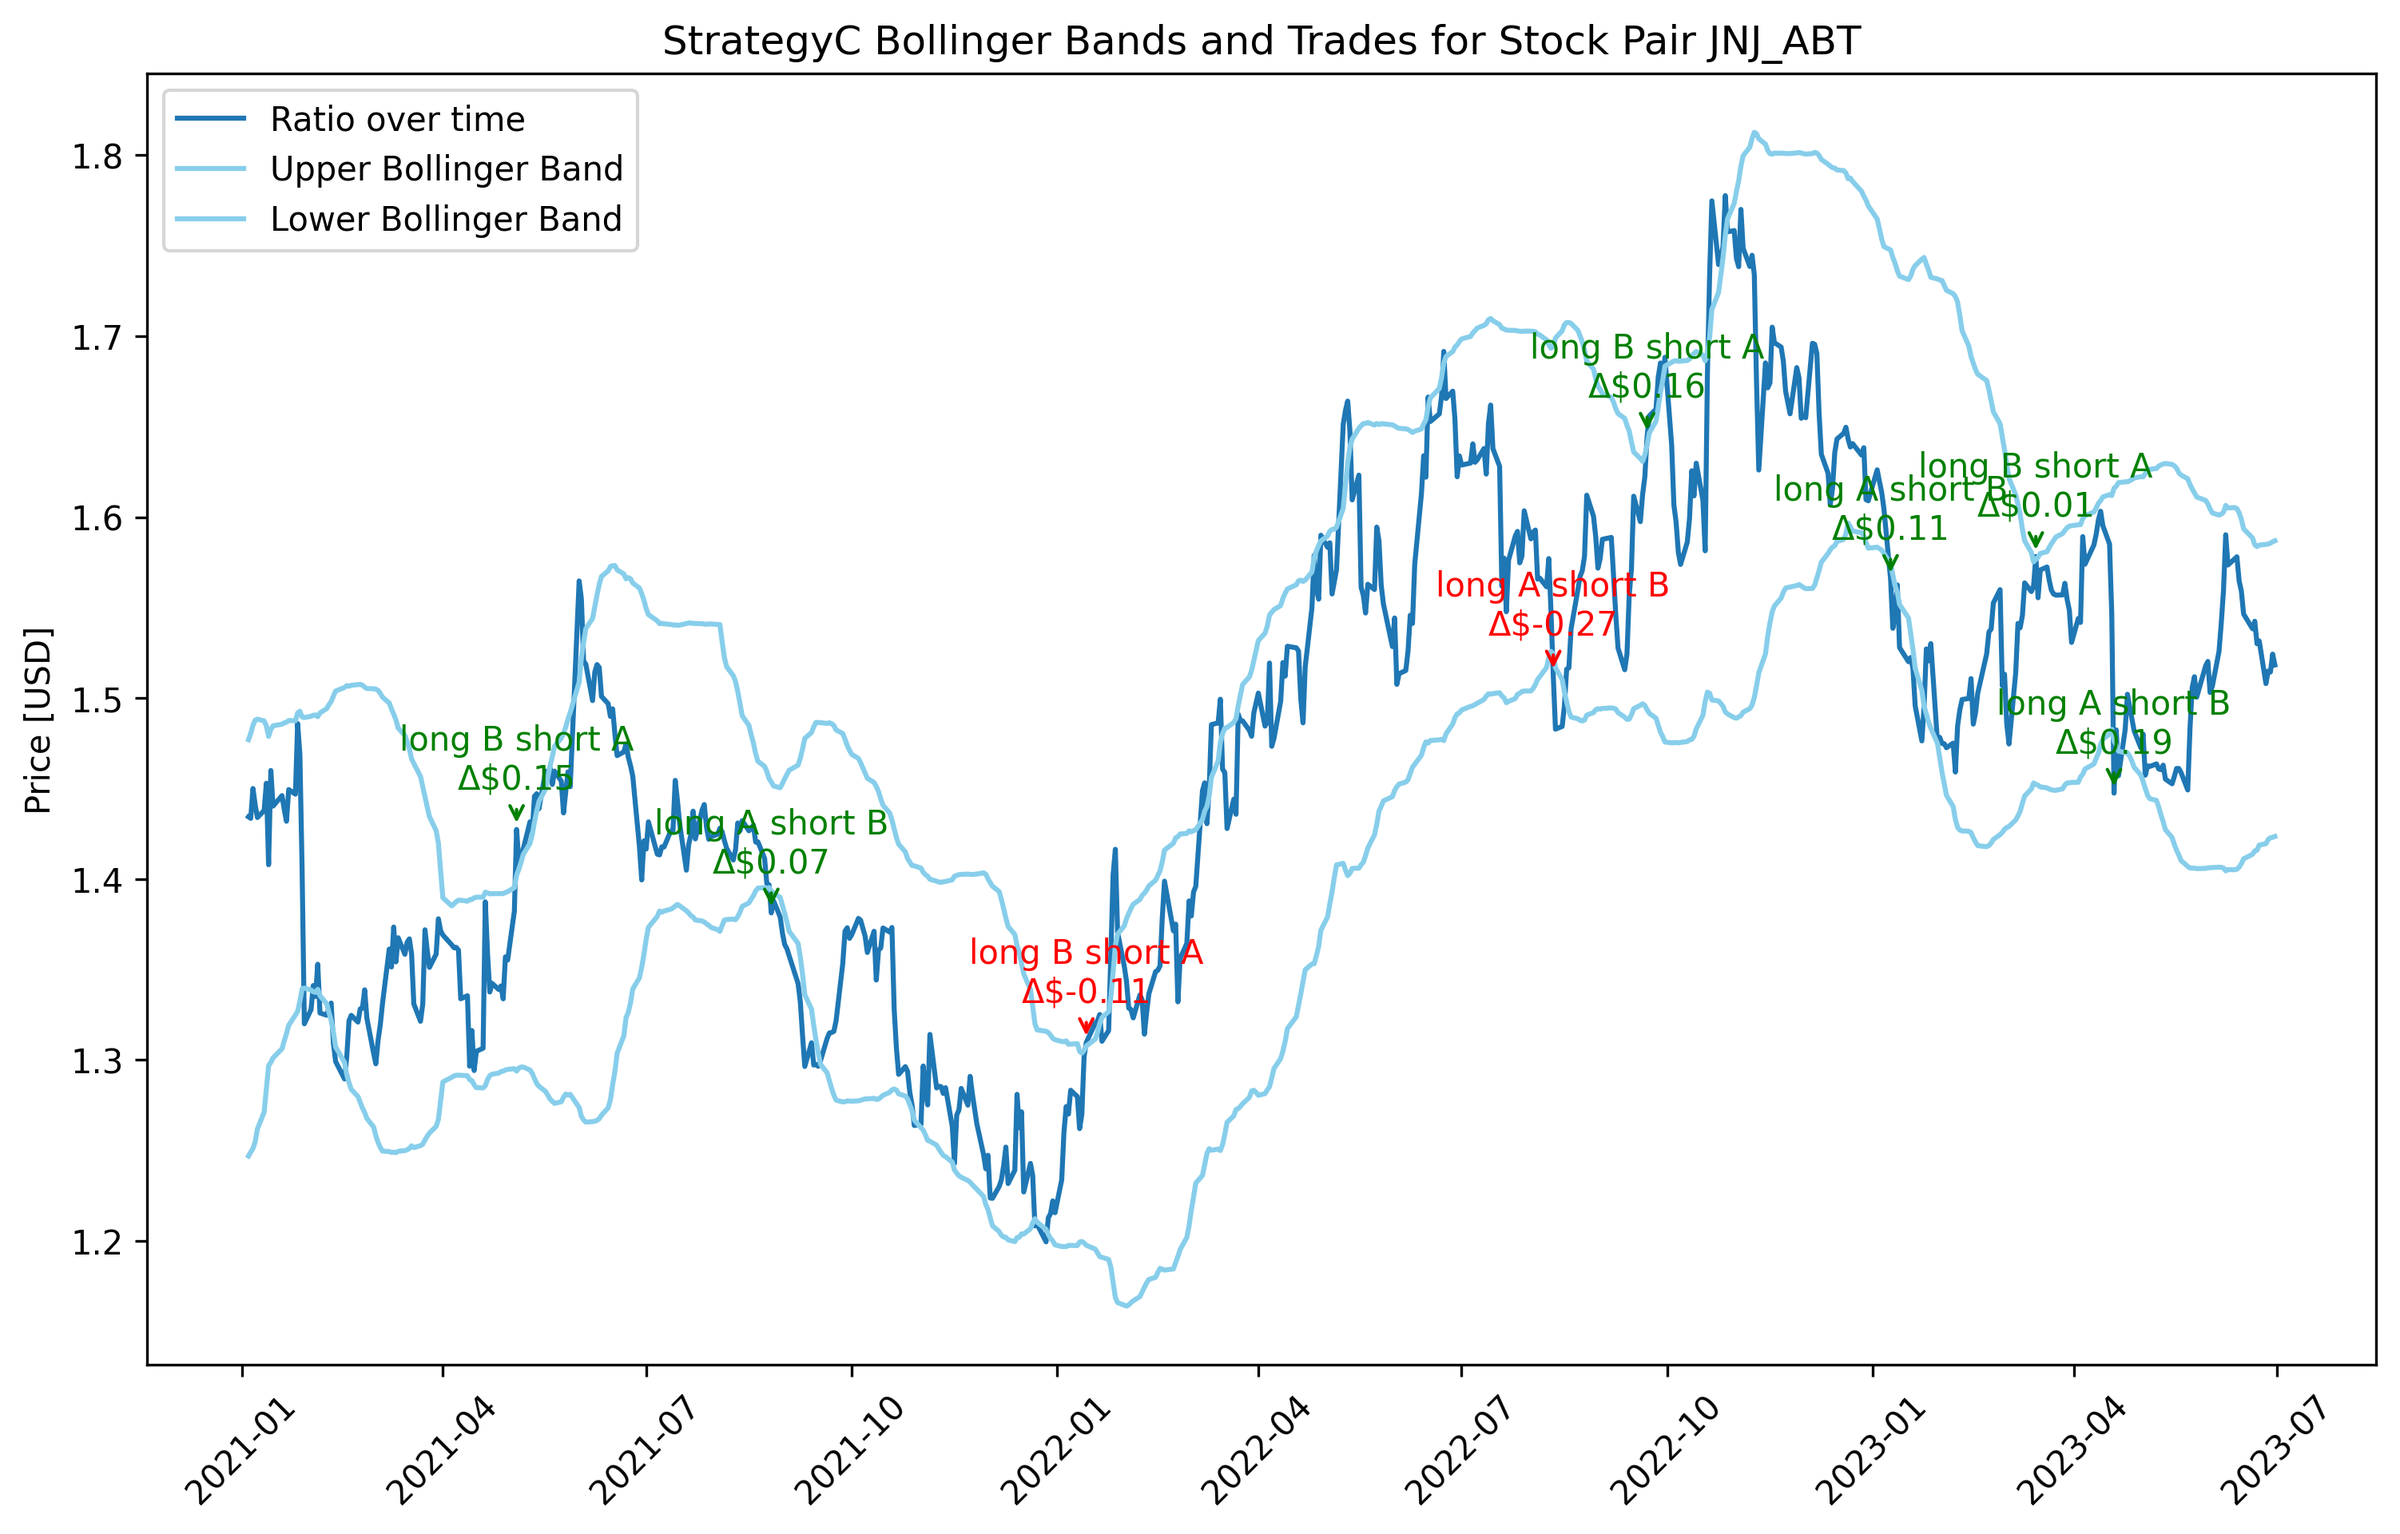
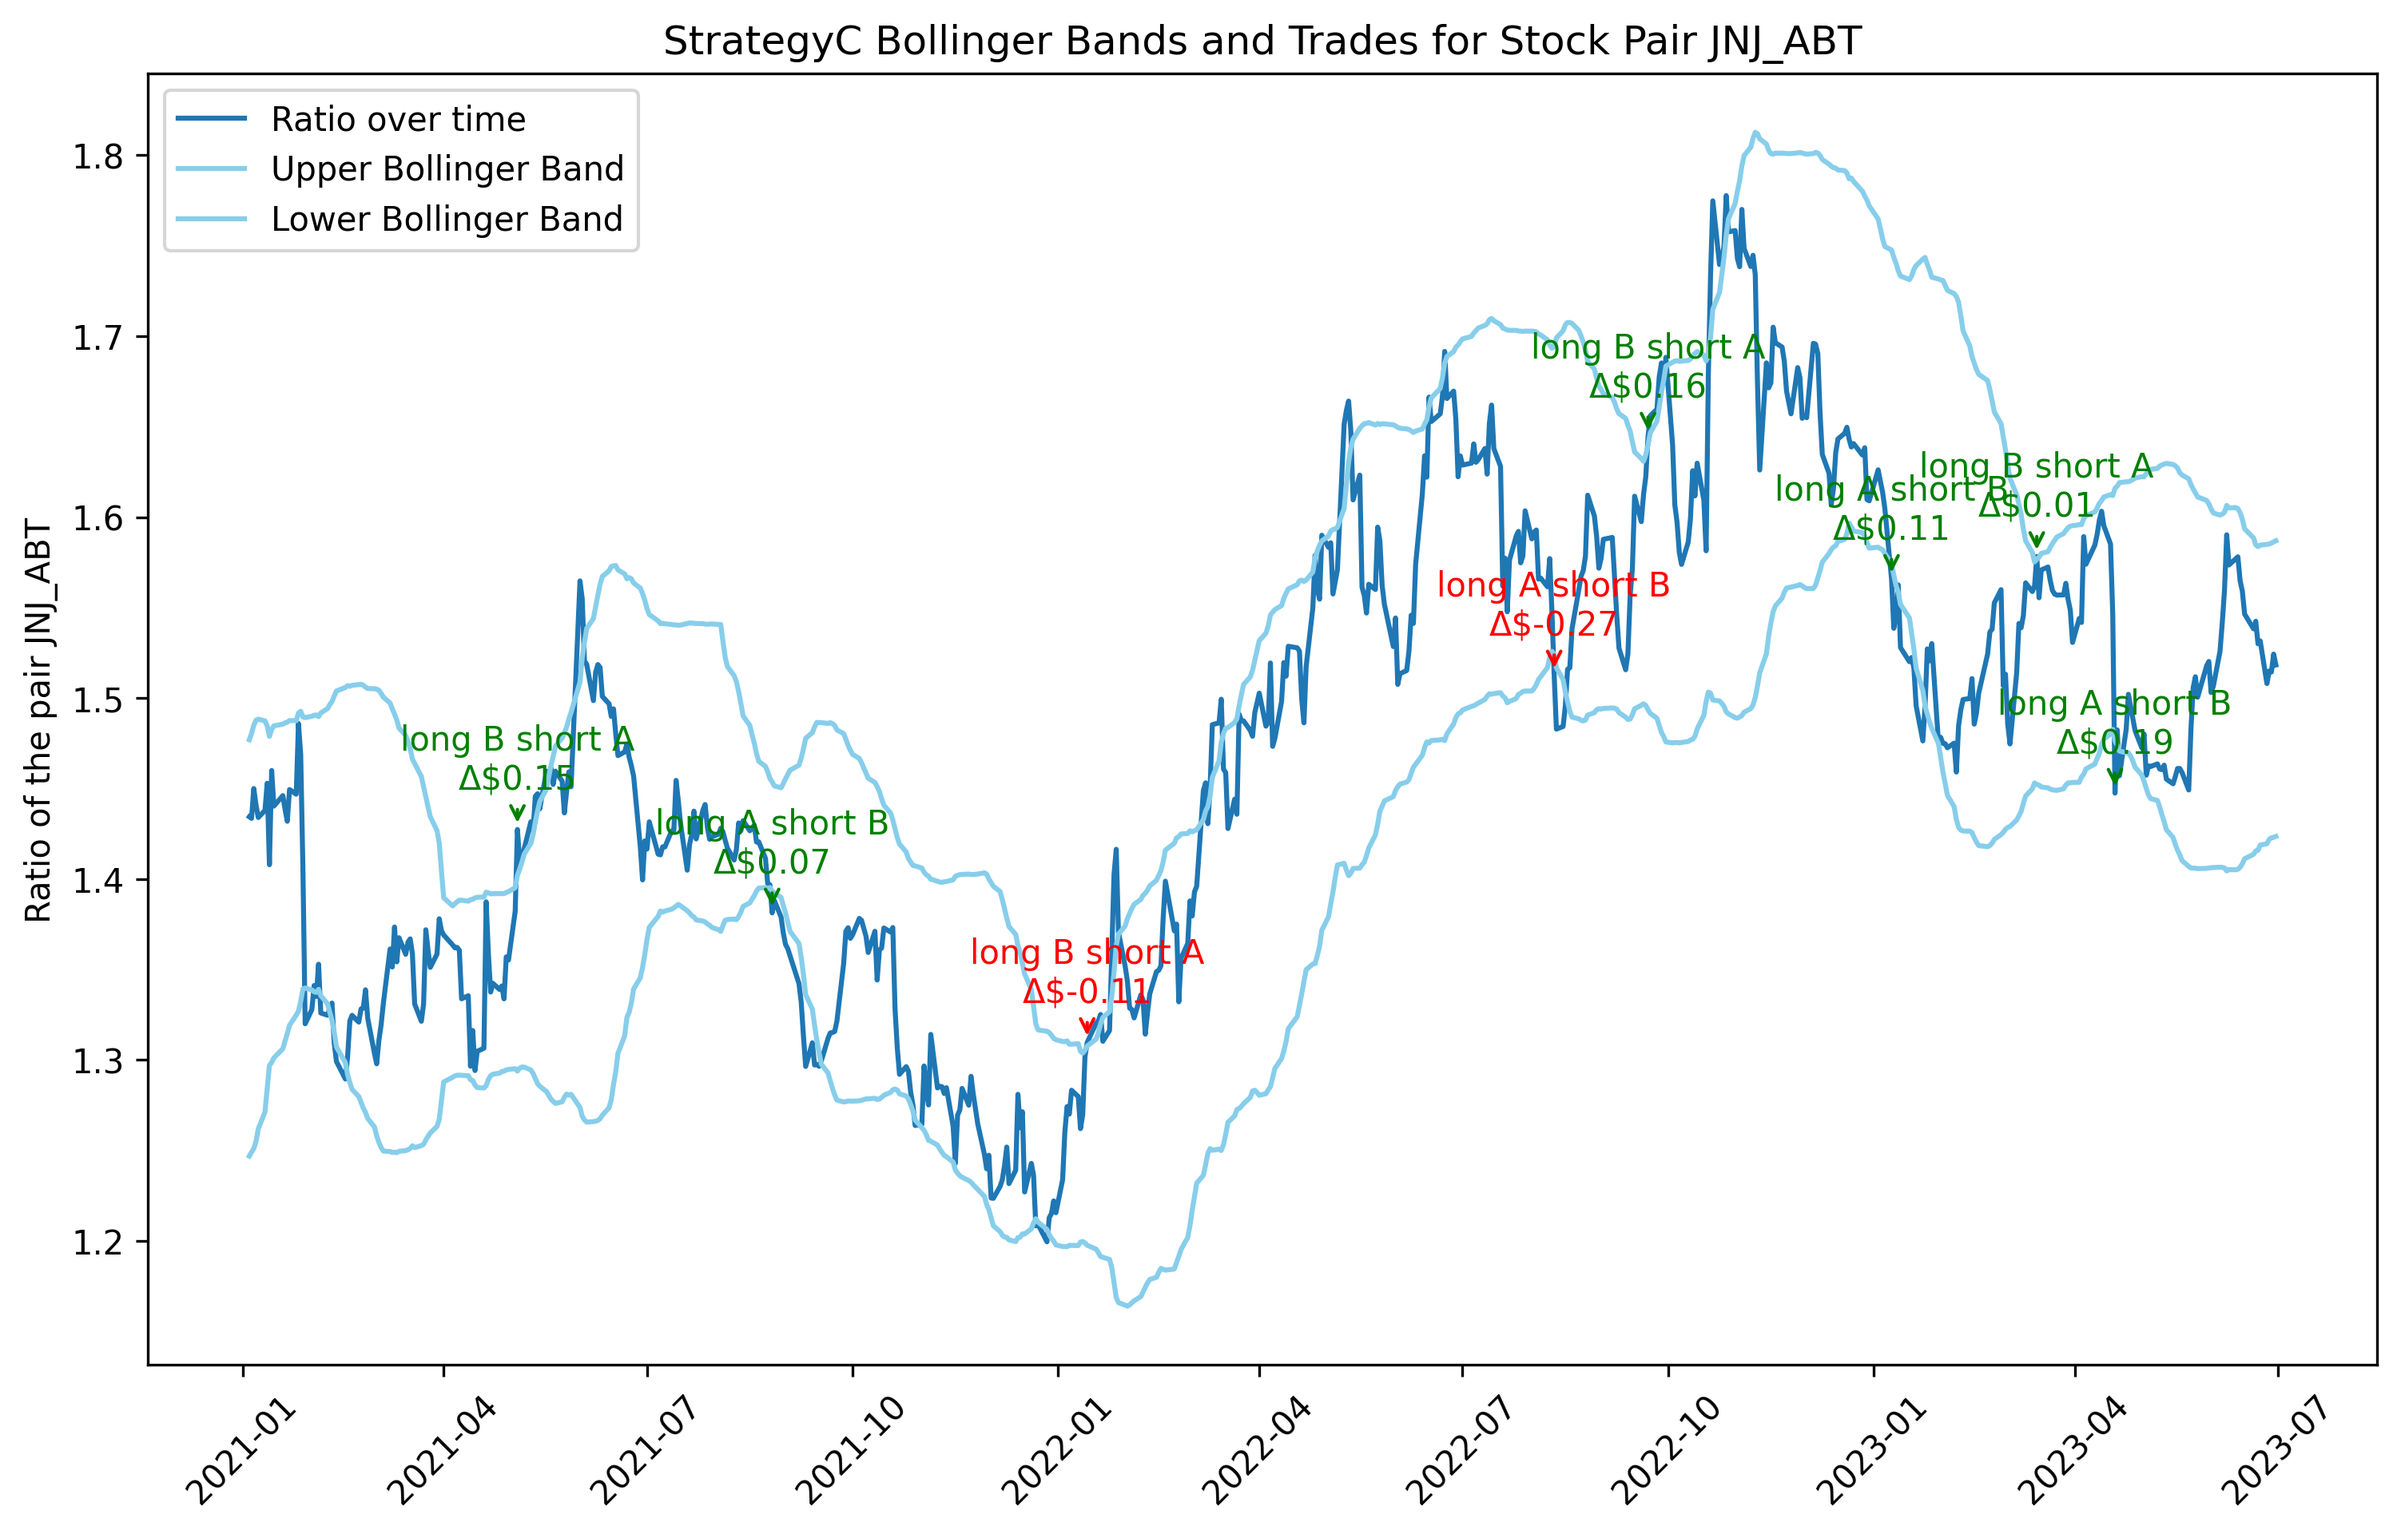
update_plotting.py

diff --git a/pairs_trading_oaf/plotting.py b/pairs_trading_oaf/plotting.py
@@ -151,7 +151,7 @@ def plot_strategy_c_bollinger_bands_and_trades(master_portfolio):
                             arrowprops=dict(arrowstyle="->", color=color),
                             ha='center', va='bottom', color=color)
 
-        ax.set_ylabel('Price [USD]')
+        ax.set_ylabel(f'Ratio of the pair {stock_pair_label}')
         plt.xticks(rotation=45)
         ax.set_title(f'StrategyC Bollinger Bands and Trades for Stock Pair {stock_pair_label}')
         ax.legend()
